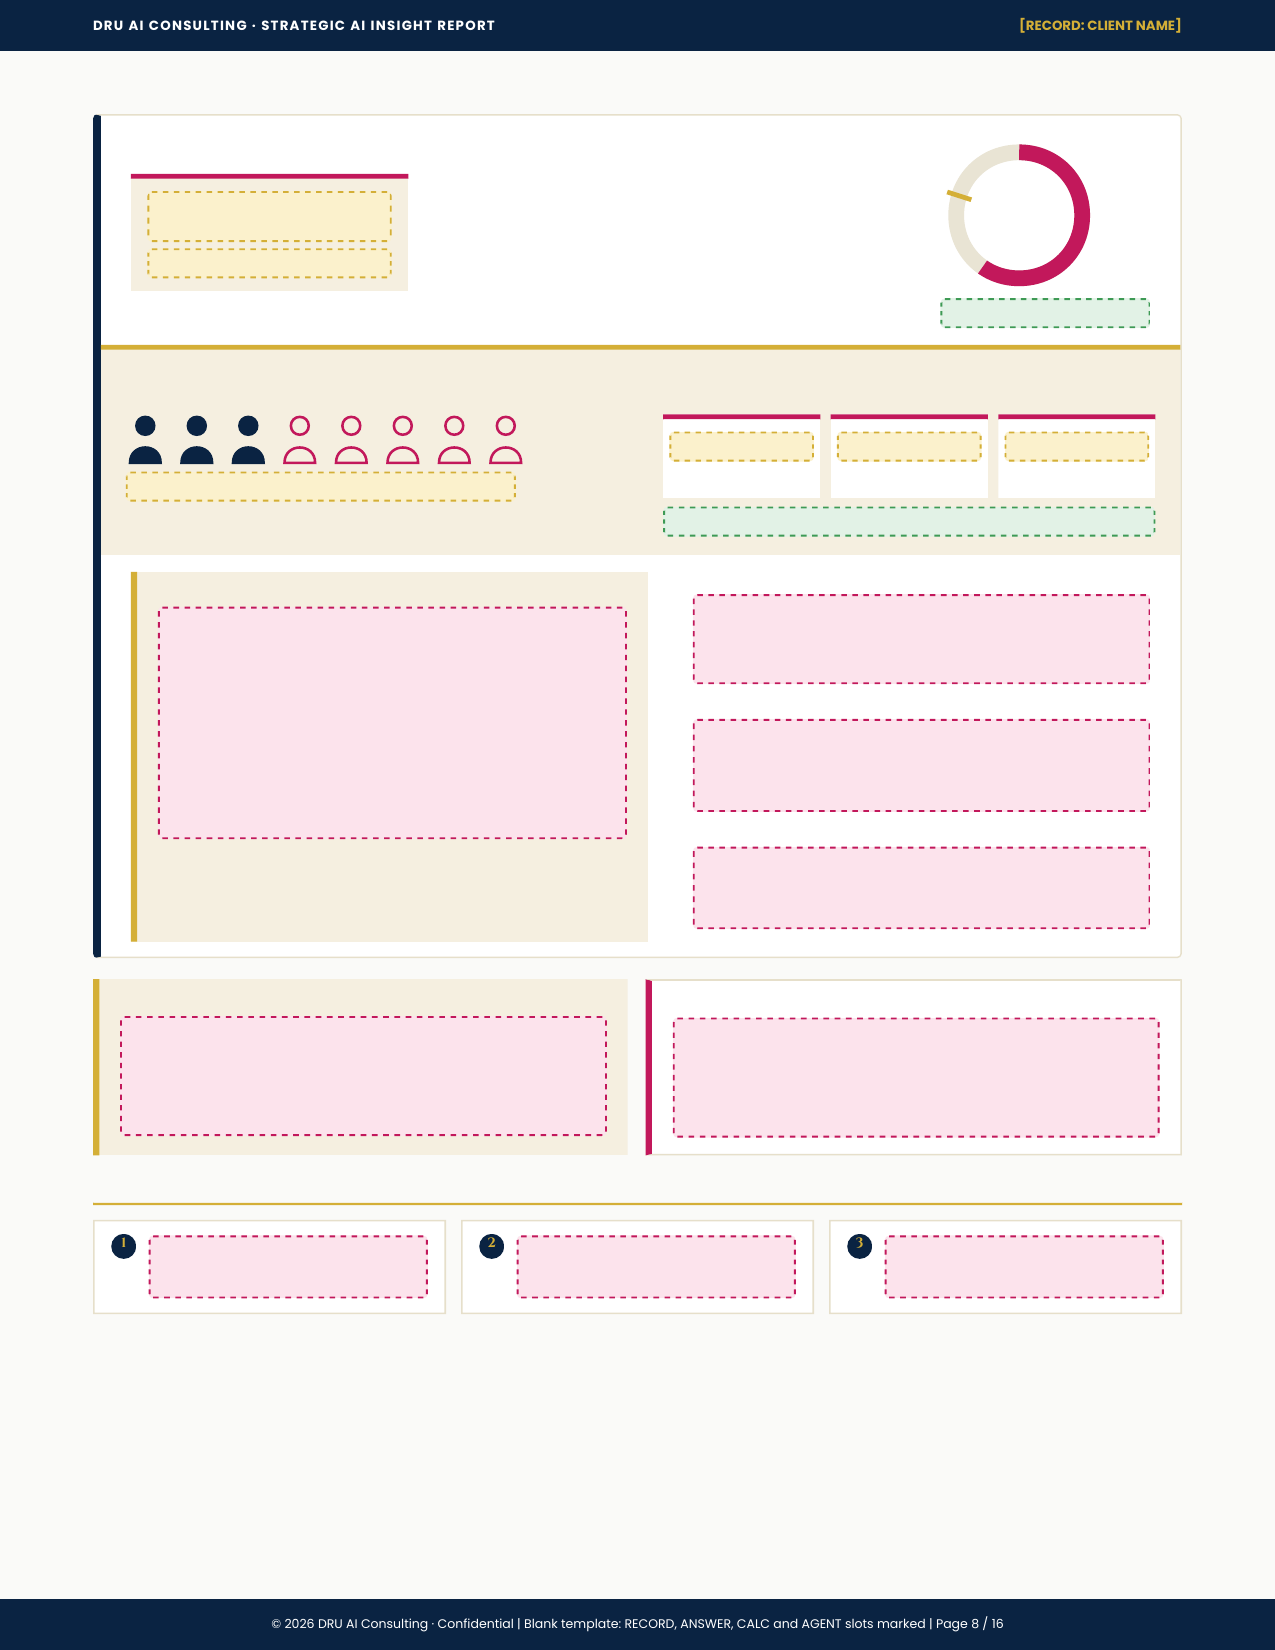
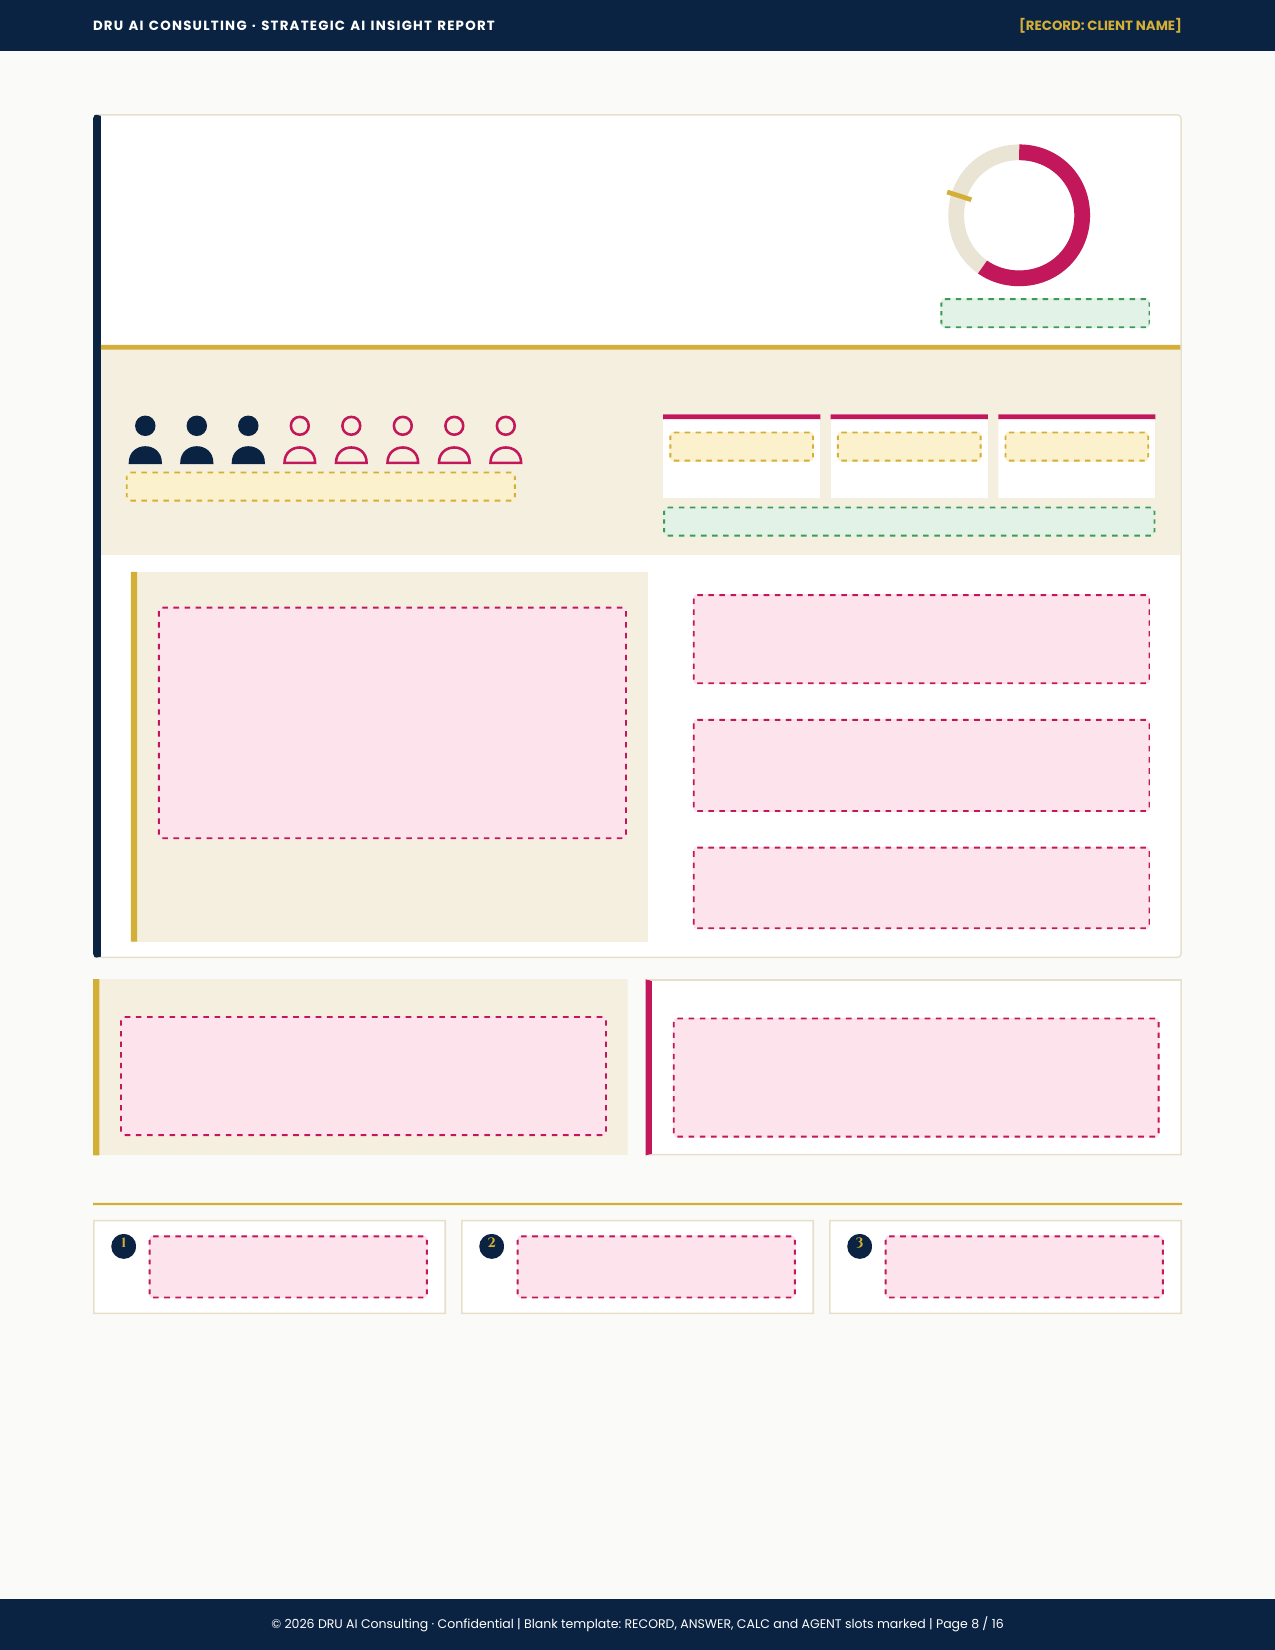
SD report: remove headline figure and caption from Clarity, Leadership, Alignment and Results pages
The Execution page keeps its regions figure, which comes straight from the client's number box.
Removes the fields, repaints the drawn boxes in both page image sets, and updates Imani's instructions.

Claude-Session: https://claude.ai/code/session_01CiYksyGTYgB4YSC2N5pJ95

Changed region(s): [[0.0918, 0.0927, 0.3365, 0.1855]]

diff --git a/api/_lib/imaniJobDescription.ts b/api/_lib/imaniJobDescription.ts
@@ -26,7 +26,7 @@ WHAT YOU WRITE, PAGE BY PAGE
 - Page 4: one sentence on the strongest pillar, the weakest pillar and the opportunity between them.
 - Page 5, The Distance to the Next Achievement: EMERGING, DEVELOPING and ADVANCING clients get the calculator's sentence, so you write nothing for them. A LEADING client has no points to gain, so you write the sentence. For that client the next achievement is Dominate, the last stage of the DRU AI Transformation Pathway™, and the wording shows how this client can dominate, drawn from the client's own answers.
 - Page 6: "Evidence in your answers" and "Why it ranks here" for each of the five ranked gaps, in rank order. The pillar names come from the calculator and you write none of them. The ranking line under the page title is DeAnna's fixed wording and you write nothing for it.
-- Pages 7 to 11 (Clarity, Leadership, Execution, Alignment, Results): Aha Moments, Compounded Cost, Connection, First Step, What Strength Looks Like, a Day 30/60/90 marker and three Session Questions. Each pillar page also carries a headline figure with a short caption under it. Page 10 (Alignment) also has a one-line note under the chart. Page 9 (Execution) also carries the regions the pilot reaches, with its caption, and a line under the region tiles.
+- Pages 7 to 11 (Clarity, Leadership, Execution, Alignment, Results): Aha Moments, Compounded Cost, Connection, First Step, What Strength Looks Like, a Day 30/60/90 marker and three Session Questions. Page 10 (Alignment) also has a one-line note under the chart. Page 9 (Execution) also carries the regions the pilot reaches, with its caption, and a line under the region tiles.
 - Page 12: for each of the five 5D levels (Self, People, Teams, Organizations, Visionary): the law matched to the client's answer, a body built around that law, and one action with a time frame.
 - Page 13: one paragraph under the diagram: the client's strongest pillar and what it supplies.
 - Page 14: three findings, each a headline plus a paragraph from the client's answers.
@@ -49,8 +49,7 @@ By kind of spot
 - Day 30, 60 or 90 marker: one observable sign of progress at one of those marks.
 - Session Questions: three questions for the call, drawn from the client's answers.
 - Page 6, Evidence in your answers: the client's own figures or words that sit behind this ranked pillar, copied from the client's answers or the calculator, in a short phrase. The cell for rank 1 holds evidence for the pillar ranked first, and so on down the five ranks.
-- Headline figure (pillar pages 7 to 11): the single most telling figure from that pillar's client answers or the calculator, written as the figure alone (for example "$50,000" or "3 of 10"). The caption under it names what that figure measures, in a few words.
-- Page 9, regions: the headline figure states how many regions the pilot reaches, from the client's number box. Its caption reads "served by" followed by the pilot's name as the client typed it. The line under the region tiles states what the client's answers show about where the pilot runs, where it is blocked and what awaits it, using the client's own words.
+- Page 9, regions: the figure at the top of the page states how many regions the pilot reaches, from the client's number box. Its caption reads "served by" followed by the pilot's name as the client typed it. The line under the region tiles states what the client's answers show about where the pilot runs, where it is blocked and what awaits it, using the client's own words.
 - Page 6, Why it ranks here: one short reason this pillar holds its rank, from the client's pillar score and answers.
 - Page 12, 5D levels: match one law to the client's answer for that level, build the body around that law, then give one action with a time frame.
 - Pages 4, 13 and 14: summary wording built from the strongest and weakest pillars and the client's answers. Page 14 gives three findings, each a headline plus a paragraph.

diff --git a/client/src/pages/AdminReport.tsx b/client/src/pages/AdminReport.tsx
@@ -167,7 +167,7 @@ const PAGE6_ROWS: Record<string, { col: number; row: number }> = {};
 const PAGE6_COLS = [{ x: 157, w: 190 }, { x: 390, w: 325 }, { x: 757, w: 405 }];
 
 // Captions and the regions line may run to two lines, so they get the room for it.
-const CAPTION2 = new Set<string>(["answer_035", "answer_050", "answer_068", "answer_087", "answer_107"]);
+const CAPTION2 = new Set<string>(["answer_068"]);
 
 // Page 12 law statements and the page 15 stage checkpoints are sentences, so they get two or three lines.
 const LAW12 = new Set<string>(["agent_126", "agent_129", "agent_132", "agent_135", "agent_138"]);
